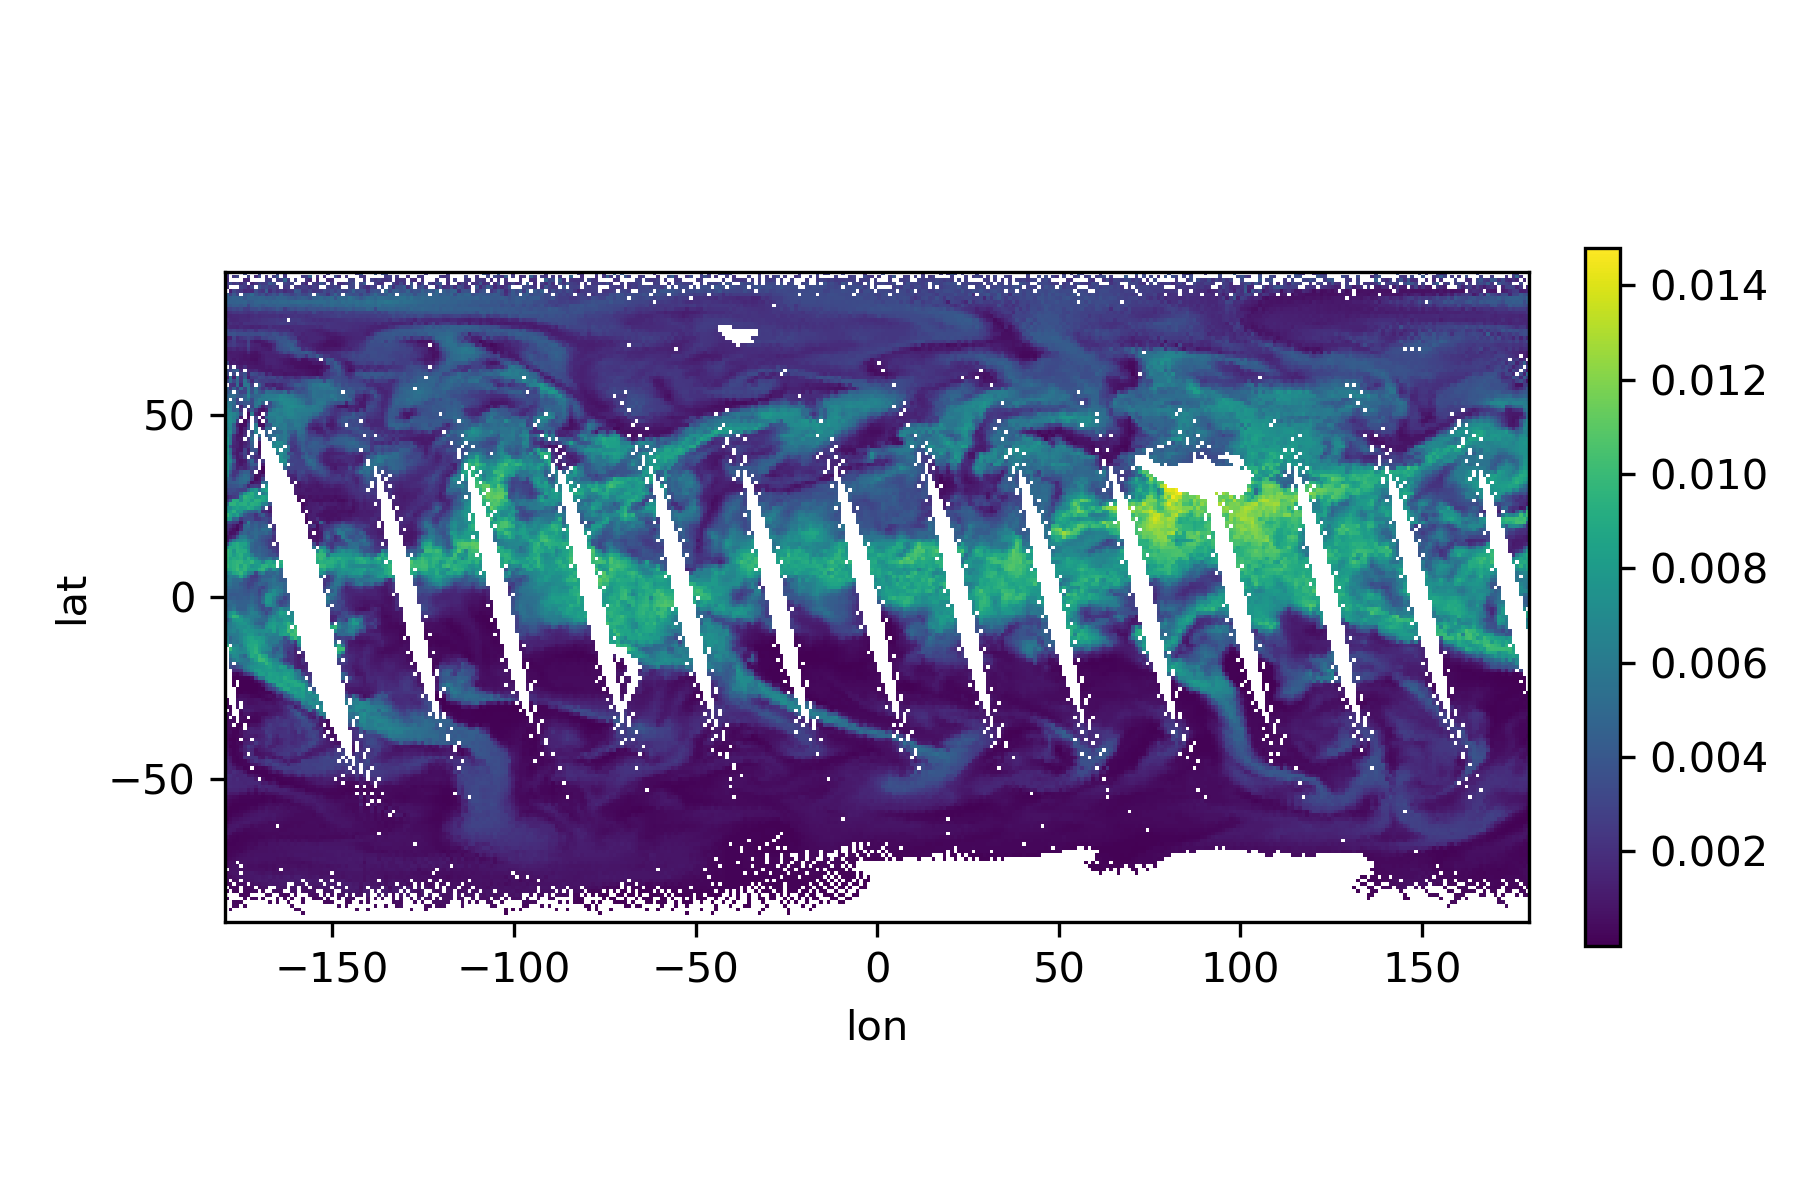
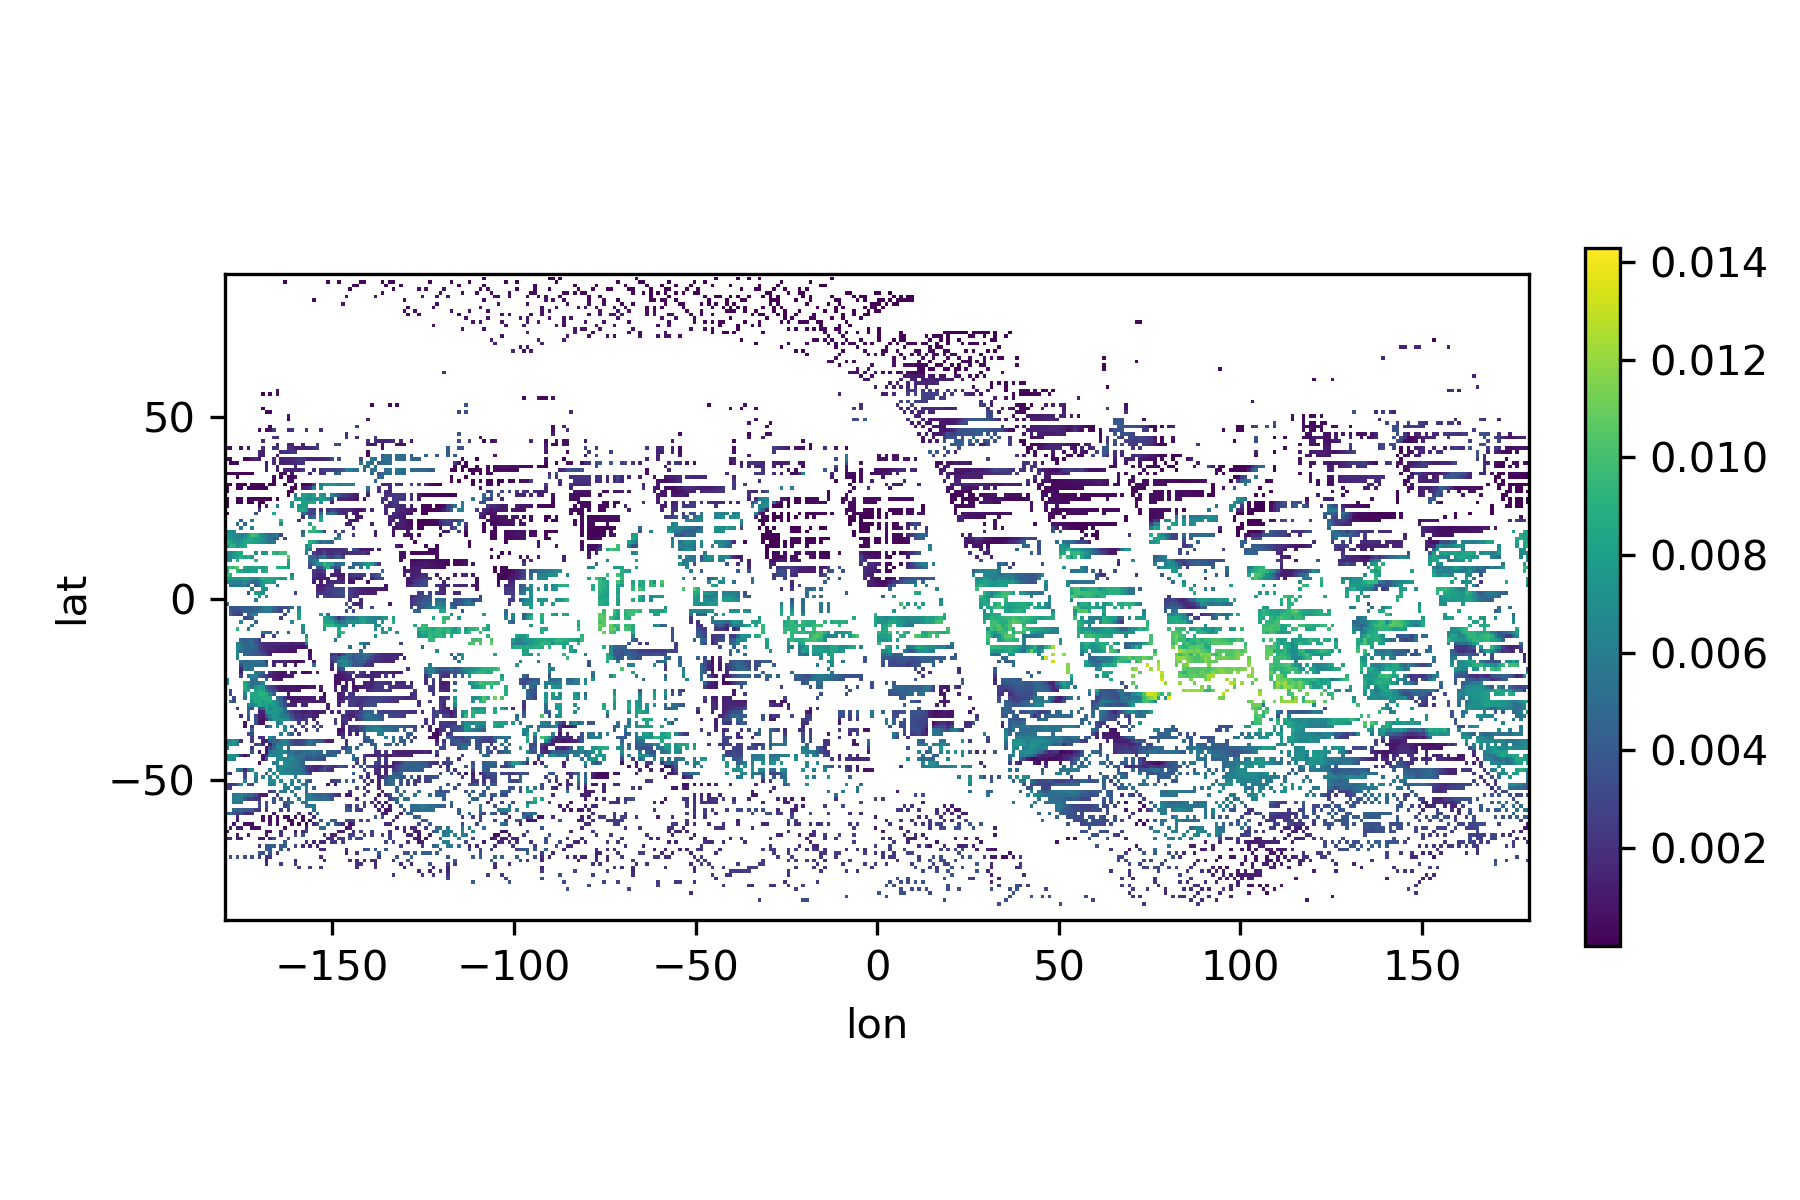
obs time loop

diff --git a/src/first_stage_amv.py b/src/first_stage_amv.py
@@ -13,6 +13,7 @@ from metpy.units import units
 import cProfile
 
 
+
 R = 6371000
 dt_inv=1/3600
 
@@ -49,6 +50,9 @@ def ds_unit_calc0(ds, day,pressure, time):
     return ds_unit
 
 def ds_unit_calc(ds, day,pressure, time):
+    suma=0
+    latlona=ds['latitude'].values.shape[0]*ds['longitude'].values.shape[0]
+    print(latlona)
     ds_unit=ds.loc[{'day':day ,'plev':pressure,'time':time}]
     df=ds_unit.to_dataframe()
     df=df.dropna().set_index('obs_time', append=True)
@@ -61,7 +65,7 @@ def ds_unit_calc(ds, day,pressure, time):
         print(obs_time)
         ds=ds_df.loc[{'obs_time':obs_time,'satellite':'j1'}]
         df=ds.to_dataframe()
-        ds=xr.Dataset.from_dataframe(df.dropna())
+        ds=xr.Dataset.from_dataframe(df.dropna(subset=['specific_humidity_mean']))
         ds=ds_df.loc[{'obs_time':obs_time,'latitude':ds['latitude'].values,
                           'longitude': ds['longitude'].values}]
         print('formatting done')
@@ -69,9 +73,13 @@ def ds_unit_calc(ds, day,pressure, time):
         frame=frame_retreiver(ds, 'snpp')
         print(np.shape(frame))
         if 0 not in np.shape(frame):
-            flowx,flowy=calc(frame0, frame)
-            #flowx=frame0
-            #flowy=frame
+            print(df.dropna(subset=['specific_humidity_mean']).shape[0])
+            suma=suma+df.dropna(subset=['specific_humidity_mean']).shape[0]
+            print('ratio')
+            print(suma/latlona)
+            #flowx,flowy=calc(frame0, frame)
+            flowx=frame0
+            flowy=frame
         
             ds['flowx']=(['latitude','longitude'],flowx)
             ds['flowy']=(['latitude','longitude'],flowy)
@@ -79,8 +87,11 @@ def ds_unit_calc(ds, day,pressure, time):
                               'longitude': ds['longitude'].values}]=ds['flowx']
             ds_df['flowy'].loc[{'latitude':ds['latitude'].values,
                               'longitude': ds['longitude'].values}]=ds['flowy']
-    
+      
         
+    
+    print('final ratio: ')
+    print(suma/latlona)
     return ds_df[['flowx','flowy']]
 
 
@@ -96,7 +107,7 @@ def main():
     
     print(ds)
     ds_total=xr.Dataset()
-    for day in ds['day'].values:
+    for day in [ds['day'].values[3]]:
         print(day)
  
         ds_unit=xr.Dataset()
@@ -124,7 +135,7 @@ def main():
     print(ds_total)
         
         
-    ds_total.to_netcdf('../data/processed/real_water_vapor_noqc_test.nc')
+    ds_total.to_netcdf('../data/processed/real_water_vapor_noqc_test2.nc')
 
 if __name__ == '__main__':
     main()

diff --git a/src/plotter.py b/src/plotter.py
@@ -9,8 +9,10 @@ Created on Mon Feb 15 12:06:15 2021
 import matplotlib.pyplot as plt
 import xarray as xr
 from datetime import datetime
+from datetime import timedelta
 import numpy as np
 import cv2
+from dateutil.parser import parse
 
 def map_plotter(ds, title, label, units_label, vmin, vmax):
     values = np.squeeze(ds[label].values)
@@ -30,13 +32,15 @@ def map_plotter(ds, title, label, units_label, vmin, vmax):
     
     
 def main():
-    ds=xr.open_dataset('../data/processed/real_water_vapor_noqc.nc')
+    ds=xr.open_dataset('../data/processed/real_water_vapor_noqc_test2.nc')
     print(ds)
     #print(ds)
-    ds_map=ds.loc[{'day':datetime(2020,7,3),'plev':706.6,'satellite':'snpp','time':'pm'}]
-    map_plotter(ds_map, 'snpp', 'specific_humidity_mean', ' ', 0, 0.014)
-    ds_map=ds.loc[{'day':datetime(2020,7,3),'plev':706.6,'satellite':'j1','time':'pm'}]
-    map_plotter(ds_map, 'j1', 'specific_humidity_mean', ' ', 0, 0.014)
+    ds_map=ds.loc[{'day':datetime(2020,7,3),'plev':706.6,'time':'am'}]
+    #mind=ds_map['obs_time'].min(skipna=True).values
+    #print(mind)
+    #timedelta=mind+np.timedelta64(8, 'h')
+    #ds_map=ds_map.where((ds_map.obs_time>mind) & (ds_map.obs_time<timedelta))
+    map_plotter(ds_map, 'snpp', 'flowx', ' ', 0, 0.014)
     
 if __name__=="__main__":
     main()

diff --git a/src/quiver.py b/src/quiver.py
@@ -26,9 +26,8 @@ def quiver_plot(ds, title):
     plt.close()
     
     
-ds=xr.open_dataset('../data/processed/real_water_vapor_noqc_amvs.nc')
+ds=xr.open_dataset('../data/processed/real_water_vapor_noqc_test.nc')
 ds_map=ds.loc[{'day':datetime(2020,1,1),'plev':slice(706,707),'time':'pm'}]
-breakpoint()
 ds_map = ds_map.coarsen(longitude=10, boundary='trim').mean().coarsen(
             latitude=10, boundary='trim').mean()
 quiver_plot(ds_map, 'test')
